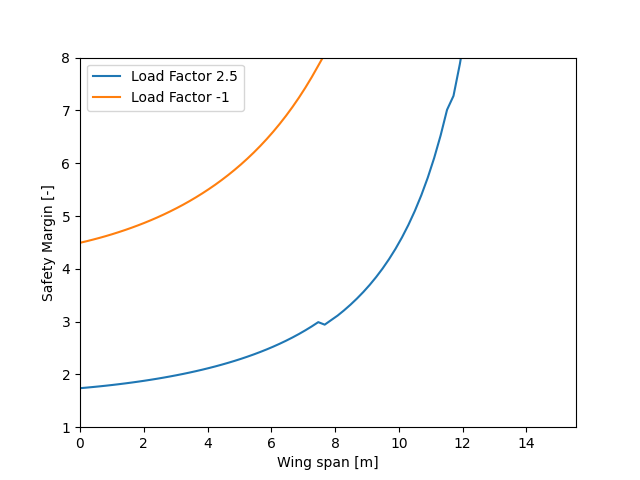
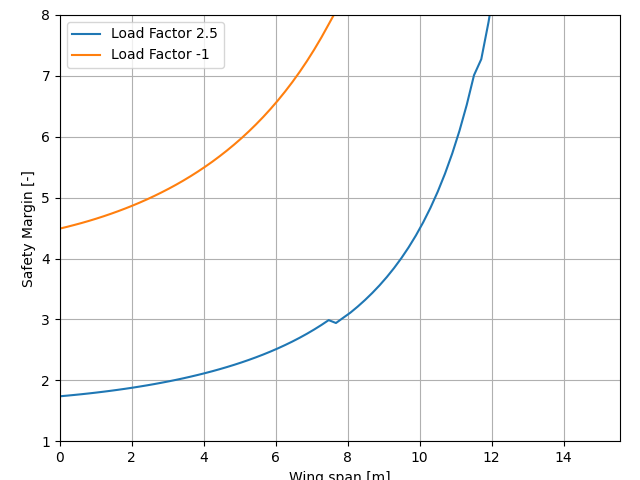
commit

diff --git a/damage_tolerance.py b/damage_tolerance.py
@@ -130,6 +130,8 @@ print('The margin of safety at the root for negative loading is', MOS_testneg)
 # ------------------ Plots ----------------------
 plt.plot(b, MOSpos, label="Load Factor 2.5")
 plt.plot(b, MOSneg, label='Load Factor -1')
+plt.tight_layout()
+plt.grid()
 #plt.yscale("log")
 plt.axis([0, tn.planform.b / 2, 1, 8])
 plt.xlabel("Wing span [m]")
